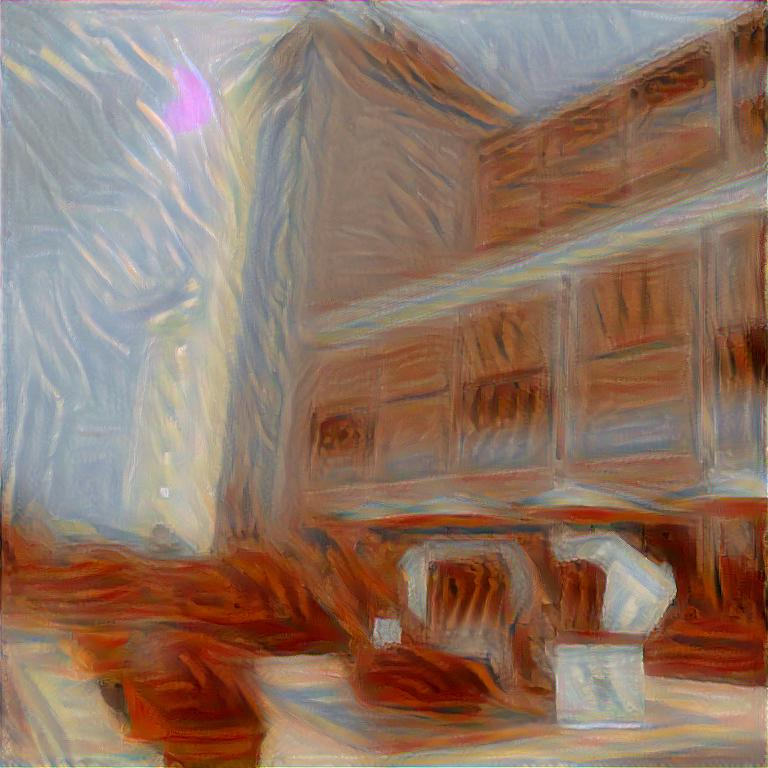
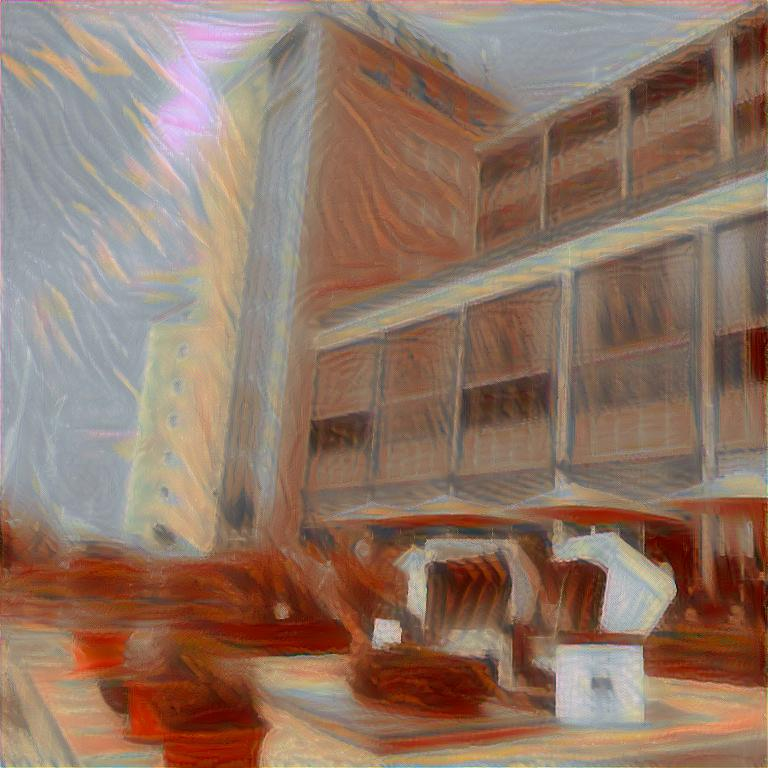
new images

diff --git a/scripts/run-experiment-slow.py b/scripts/run-experiment-slow.py
@@ -12,7 +12,7 @@ def run_experiment(
         content_image_size,
         style_weight,
         tv_weight,
-        epochs=2500,
+        epochs=3000,
         prefix='htw',
         content_image_file=realpath(f'{dirname(realpath(__file__))}/../images/content/htw-768x768.jpg'),
         use_random_noise=False,
@@ -110,11 +110,11 @@ run_experiment(prefix='a', style_image_file='the_scream.jpg', content_image_size
 run_experiment(prefix='a', style_image_file='the_scream.jpg', content_image_size=768, style_weight=1e8, tv_weight=0)
 run_experiment(prefix='a', style_image_file='the_scream.jpg', content_image_size=768, style_weight=1e9, tv_weight=0)
 
-run_experiment(prefix='a', style_image_file='starry_night.jpg', content_image_size=768, style_weight=1e5, tv_weight=0)
-run_experiment(prefix='a', style_image_file='starry_night.jpg', content_image_size=768, style_weight=1e6, tv_weight=0)
-run_experiment(prefix='a', style_image_file='starry_night.jpg', content_image_size=768, style_weight=1e7, tv_weight=0)
-run_experiment(prefix='a', style_image_file='starry_night.jpg', content_image_size=768, style_weight=1e8, tv_weight=0)
-run_experiment(prefix='a', style_image_file='starry_night.jpg', content_image_size=768, style_weight=1e9, tv_weight=0)
+run_experiment(prefix='a', style_image_file='the_starry_night.jpg', content_image_size=768, style_weight=1e5, tv_weight=0)
+run_experiment(prefix='a', style_image_file='the_starry_night.jpg', content_image_size=768, style_weight=1e6, tv_weight=0)
+run_experiment(prefix='a', style_image_file='the_starry_night.jpg', content_image_size=768, style_weight=1e7, tv_weight=0)
+run_experiment(prefix='a', style_image_file='the_starry_night.jpg', content_image_size=768, style_weight=1e8, tv_weight=0)
+run_experiment(prefix='a', style_image_file='the_starry_night.jpg', content_image_size=768, style_weight=1e9, tv_weight=0)
 
 # Total-Variation
 run_experiment(prefix='b', style_image_file='the_scream.jpg', content_image_size=768, style_weight=1e7, tv_weight=1e-7)
@@ -123,13 +123,8 @@ run_experiment(prefix='b', style_image_file='the_scream.jpg', content_image_size
 run_experiment(prefix='b', style_image_file='the_scream.jpg', content_image_size=768, style_weight=1e7, tv_weight=1e-4)
 run_experiment(prefix='b', style_image_file='the_scream.jpg', content_image_size=768, style_weight=1e7, tv_weight=1e-3)
 
-run_experiment(prefix='b', style_image_file='starry_night.jpg', content_image_size=768, style_weight=1e8,
-               tv_weight=1e-7)
-run_experiment(prefix='b', style_image_file='starry_night.jpg', content_image_size=768, style_weight=1e8,
-               tv_weight=1e-6)
-run_experiment(prefix='b', style_image_file='starry_night.jpg', content_image_size=768, style_weight=1e8,
-               tv_weight=1e-5)
-run_experiment(prefix='b', style_image_file='starry_night.jpg', content_image_size=768, style_weight=1e8,
-               tv_weight=1e-4)
-run_experiment(prefix='b', style_image_file='starry_night.jpg', content_image_size=768, style_weight=1e8,
-               tv_weight=1e-3)
+run_experiment(prefix='b', style_image_file='the_starry_night.jpg', content_image_size=768, style_weight=1e8, tv_weight=1e-7)
+run_experiment(prefix='b', style_image_file='the_starry_night.jpg', content_image_size=768, style_weight=1e8, tv_weight=1e-6)
+run_experiment(prefix='b', style_image_file='the_starry_night.jpg', content_image_size=768, style_weight=1e8, tv_weight=1e-5)
+run_experiment(prefix='b', style_image_file='the_starry_night.jpg', content_image_size=768, style_weight=1e8, tv_weight=1e-4)
+run_experiment(prefix='b', style_image_file='the_starry_night.jpg', content_image_size=768, style_weight=1e8, tv_weight=1e-3)
